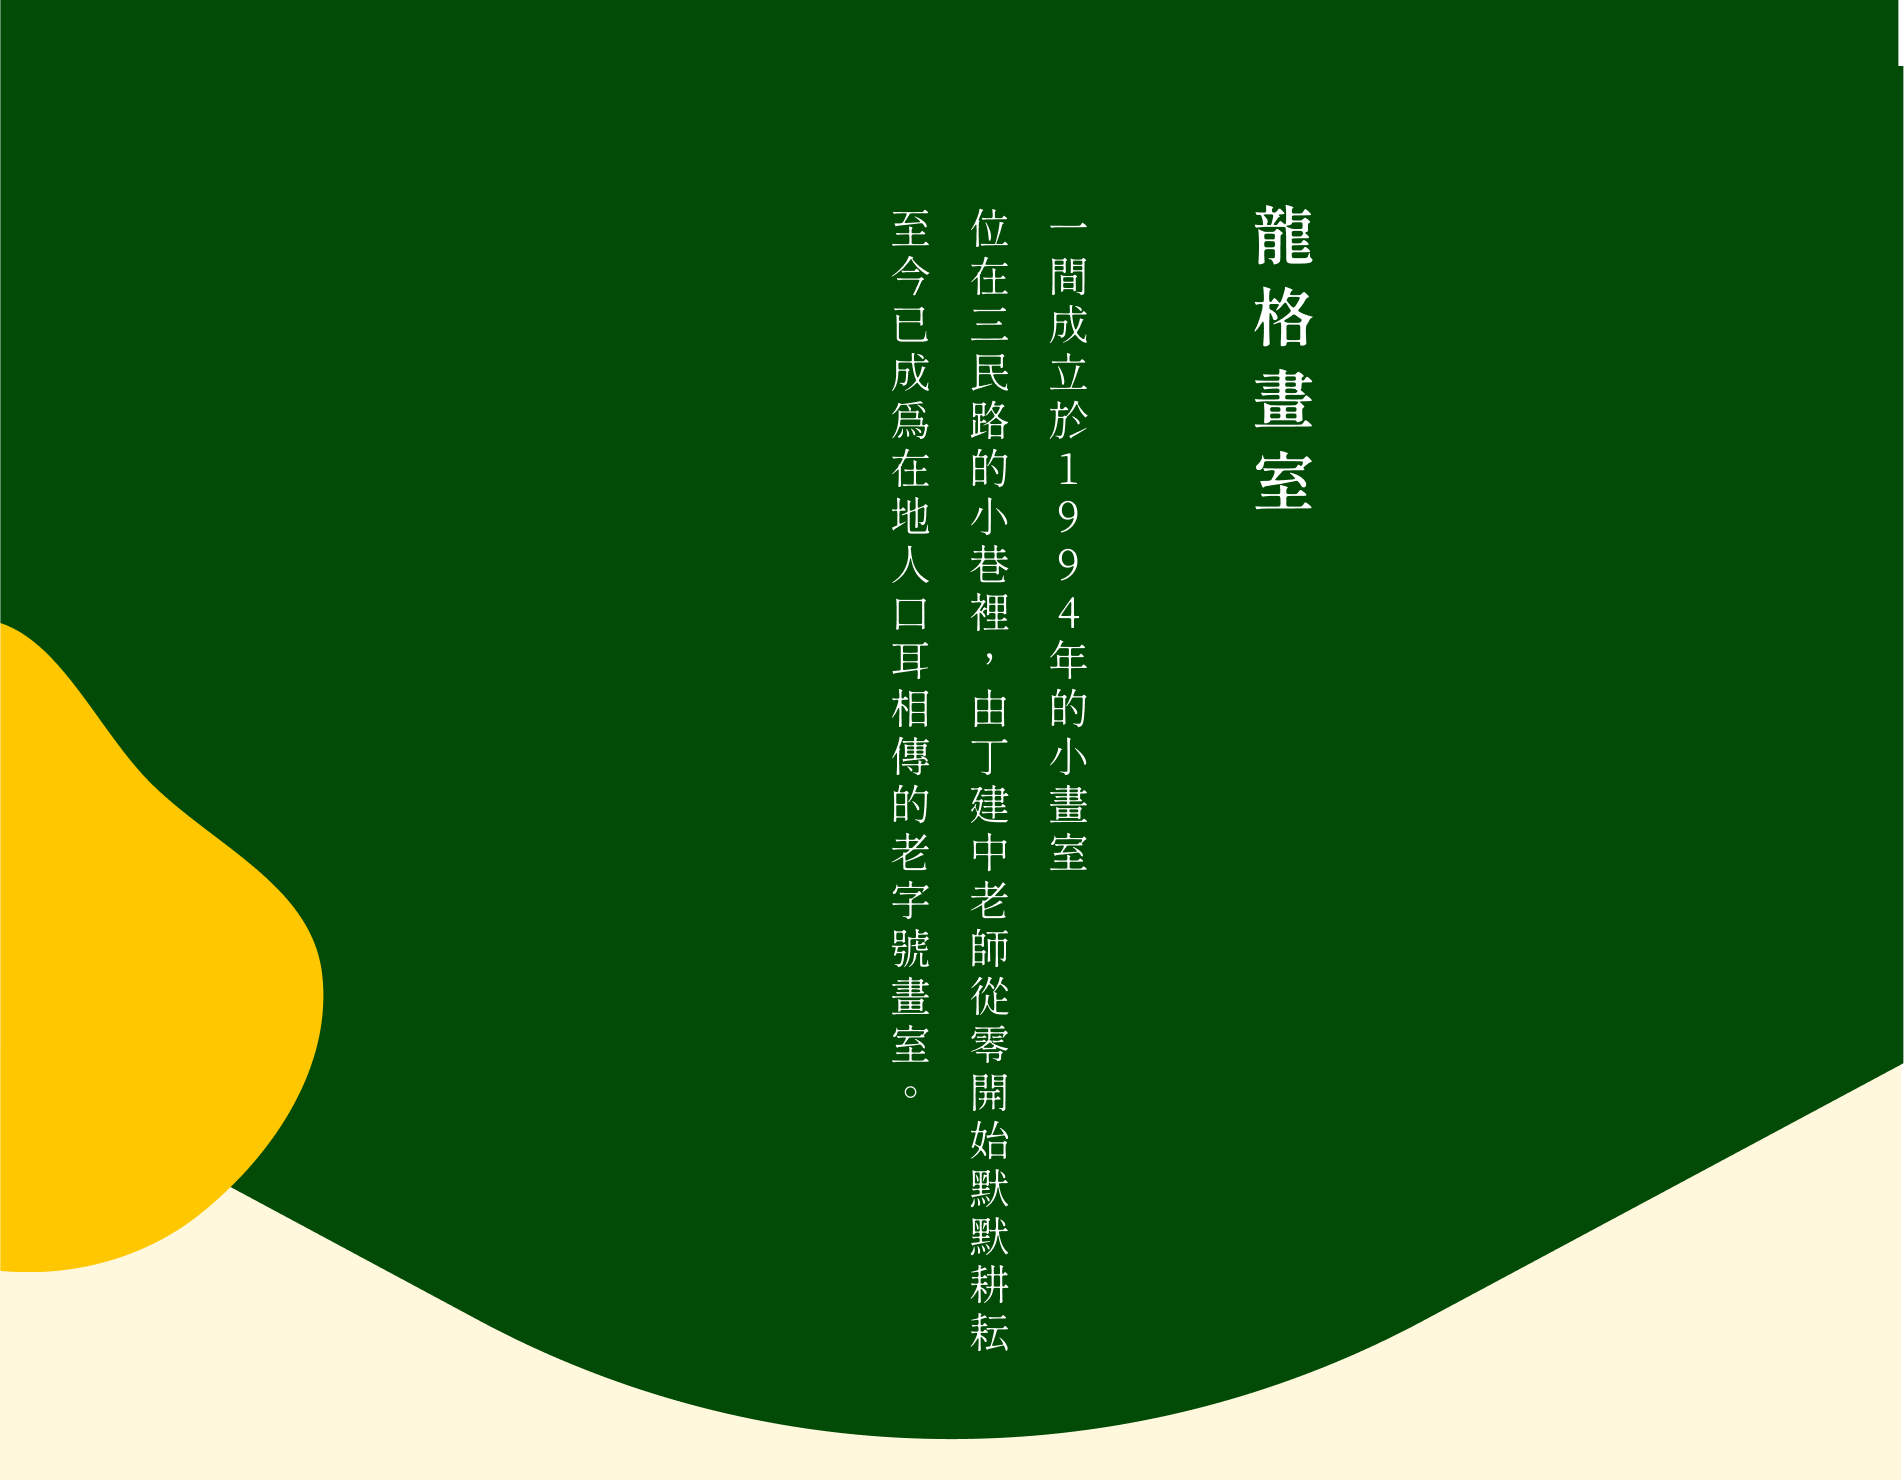
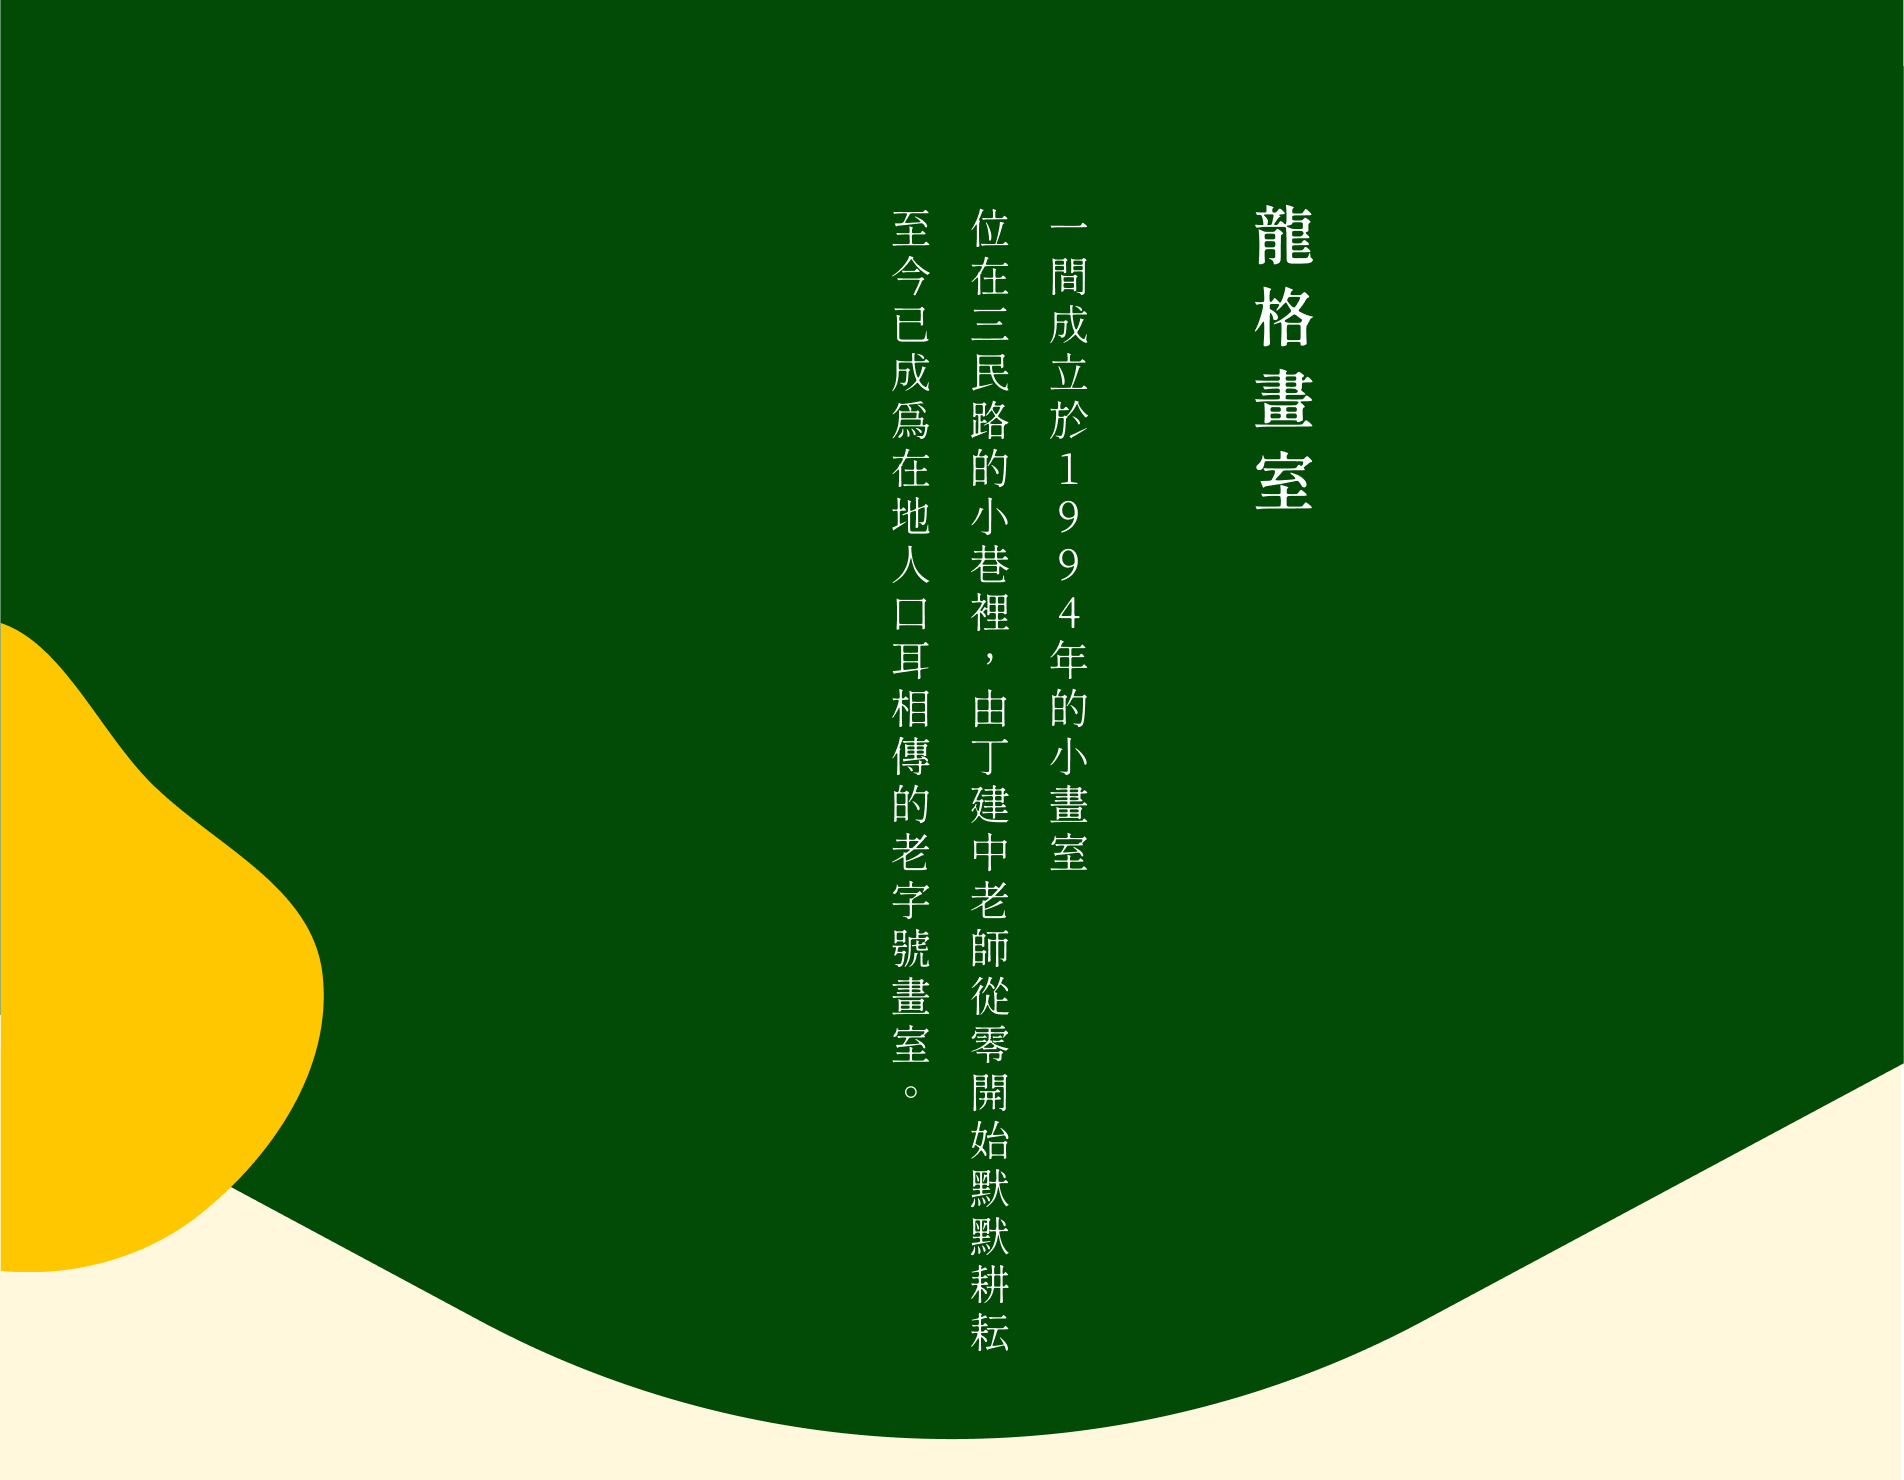
0122: longer slogn update

diff --git a/Longer/src/views/HomeView.vue b/Longer/src/views/HomeView.vue
@@ -16,15 +16,8 @@ export default {
   <!-- <TheWelcome /> -->
   <main></main>
   <section class="banner"></section>
-   <HomeTitle class="pl-[13px]">畫室介紹</HomeTitle>
-  <section class="introduce">
-    <section class="introduce-text">
-      <p class="title">龍格畫室</p>
-      <p>一間成立於1994年的小畫室</p>
-      <p>位在三民路的小巷裡，由丁建中老師從零開始默默耕耘</p>
-      <p>至今已成為在地人口耳相傳的老字號畫室。</p>
-    </section>
-  </section>
+  <img src="@/assets/img/generic/longer-slogn.png" alt="">
+
  <section>
     <HomeTitle class="pl-[138px]">關於老師</HomeTitle>
     <AboutTeacher></AboutTeacher>
@@ -51,6 +44,7 @@ export default {
     <RankingList></RankingList>
   </section>
   <section></section>
+  
 </template>
 <style lang="scss" scoped>
 // .Ranking {
@@ -65,22 +59,9 @@ export default {
 }
 
 .banner {
-  @apply w-[100%] h-[calc(100vh_-_120px)] bg-[url('../assets/img/generic/banner.png')] bg-cover bg-no-repeat;
+  @apply w-full h-[calc(100vh_-_120px)] bg-[url('../assets/img/generic/banner.png')] bg-cover bg-no-repeat;
 }
-.introduce {
-  @apply flex justify-center items-end w-[100%] h-[calc(100vh_-_152px)] pl-[150px] bg-[url('../assets/img/generic/introduce.png')] bg-cover bg-no-repeat;
-  writing-mode: vertical-rl;
-  .title {
-    @apply text-[40px] relative top-[-50px];
-  }
-  .introduce-text {
-    @apply text-[24px];
 
-    p {
-      @apply m-[10px];
-    }
-  }
-}
 
 // 區塊4的css
 .bg-set {
